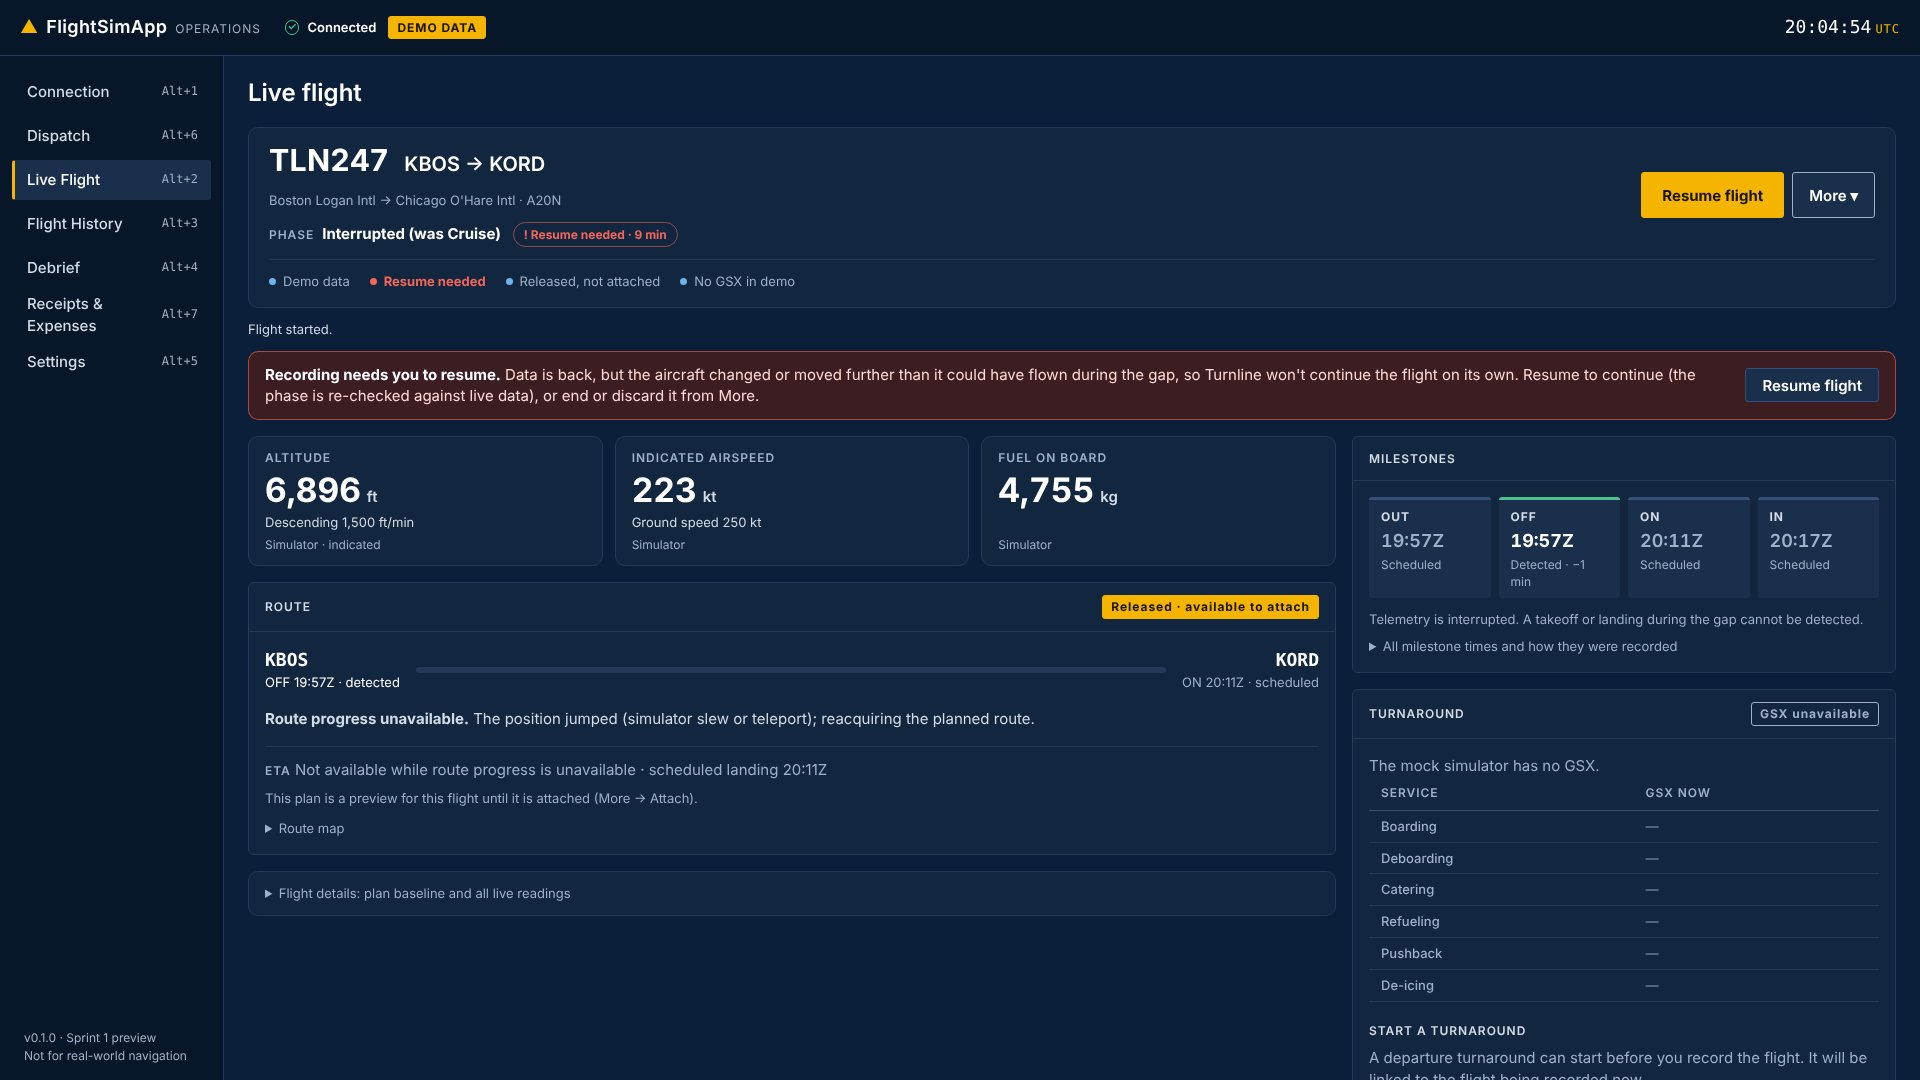
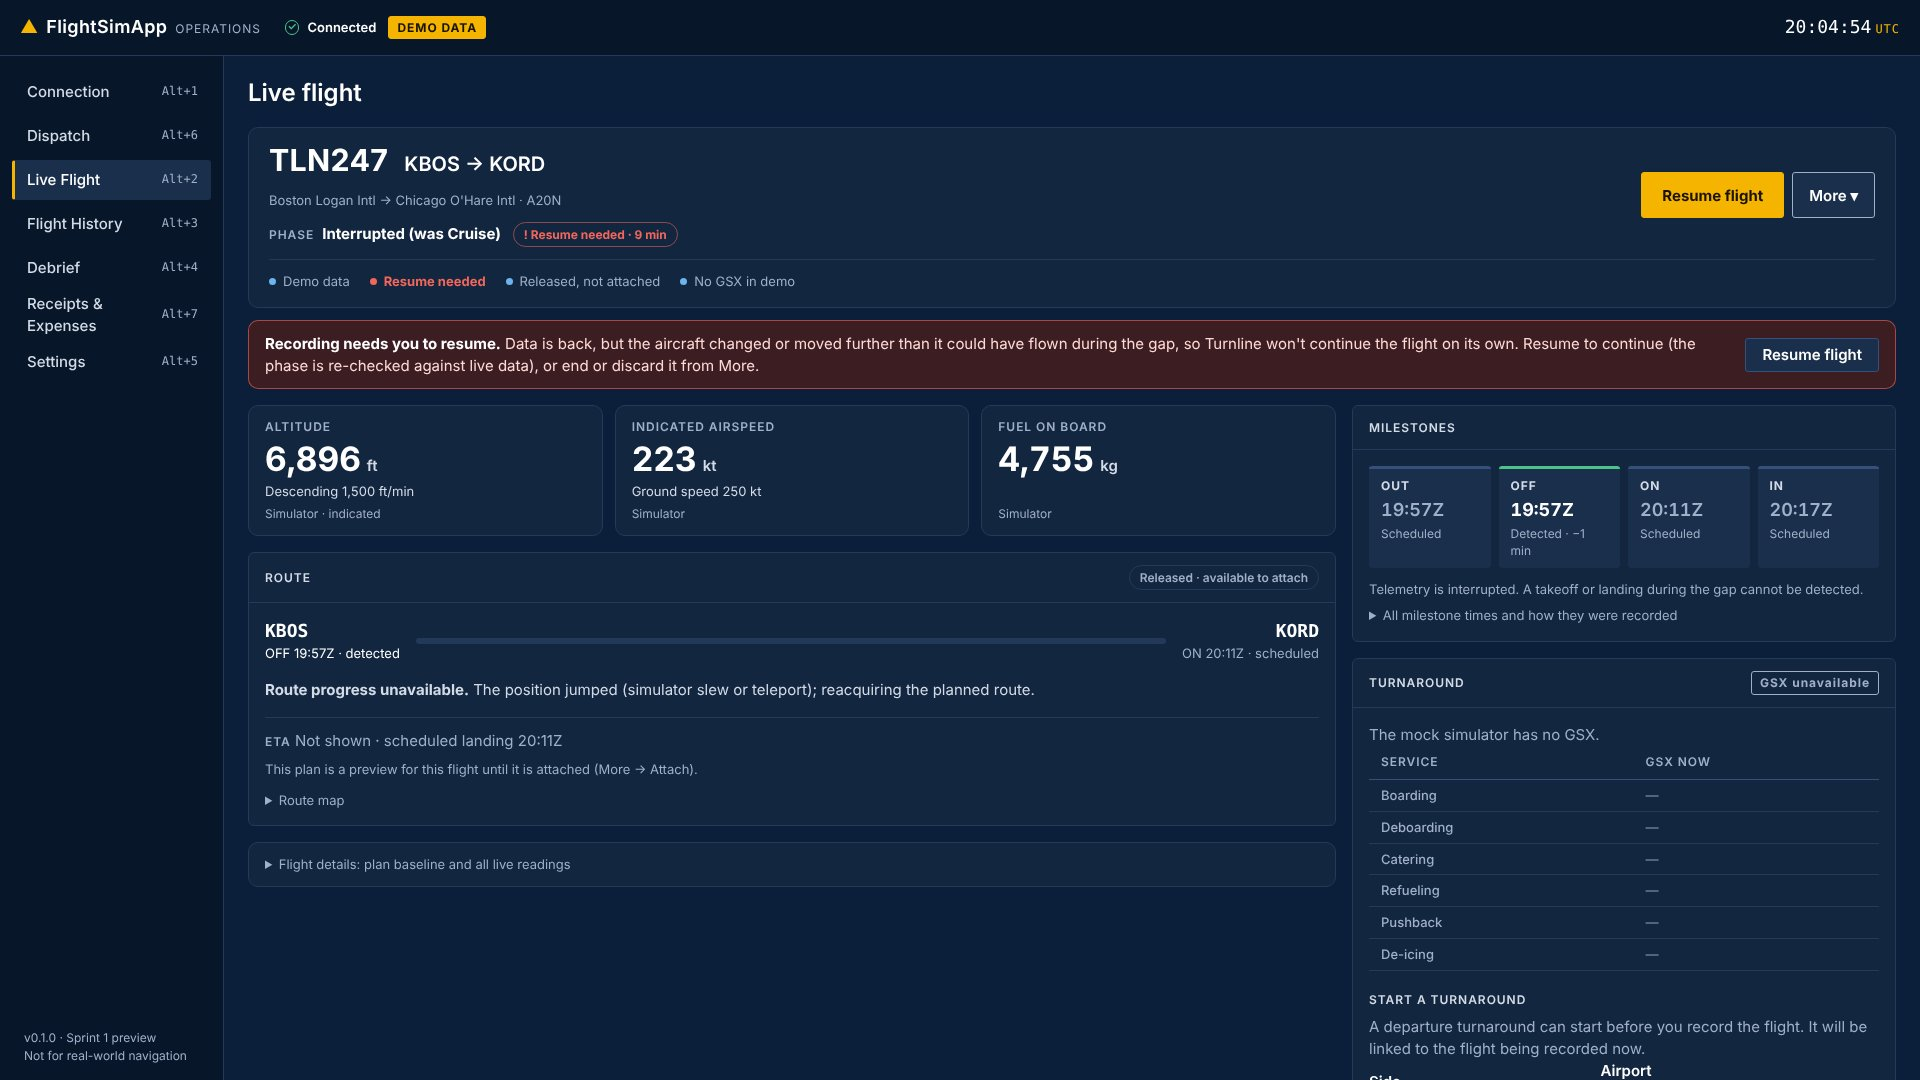
Ops Center L5 polish from the visual review
1. Tighter identity header when the content is narrower than 1000 px.
2. 'Route progress unavailable' is said once. The tracker's reason no
   longer repeats it, and the ETA line reads 'Not shown' while the route
   isn't tracked.
3. 'Flight started.' and other confirmations are transient notifications
   (6 s); problems stay until the next action.
4. Shorter paused-header text ('Paused · waiting for data'); the full
   explanation stays in the attention bar.
5. The plan-basis chip on the route card is a muted outline, not a gold
   fill.
6. Parked after landing: the on-block tile shows the scheduled IN time
   until IN is recorded, then the recorded time and its variance; no
   countdown. Taxiing in keeps the countdown.

Tests cover the parked tile, the reason de-duplication and the
confirmation clearing. Review captures regenerated.

Claude-Session: https://claude.ai/code/session_01X48f53avPYevbBC5PPk6Mm

diff --git a/apps/desktop/test/live-model.test.ts b/apps/desktop/test/live-model.test.ts
@@ -191,7 +191,7 @@ describe("flight actions", () => {
     // Interrupted before takeoff: the existing rules still allow a manual OUT, so it stays reachable.
     expect(acts({ lc: lc({ status: "interrupted", flightId: "f-1", phase: "INTERRUPTED", needsUserDecision: true }) })).toMatchObject({ primary: "resume", secondary: ["record_out", "end", "discard"] });
     // Automatic interruption: recording resumes on its own; Resume stays available but is not the primary.
-    expect(acts({ lc: lc({ status: "interrupted", flightId: "f-1", phase: "INTERRUPTED", takeoffAt: "x" }) })).toMatchObject({ primary: null, secondary: ["resume", "end", "discard"], idleNote: "Paused · resumes on its own if data returns for the same aircraft" });
+    expect(acts({ lc: lc({ status: "interrupted", flightId: "f-1", phase: "INTERRUPTED", takeoffAt: "x" }) })).toMatchObject({ primary: null, secondary: ["resume", "end", "discard"], idleNote: "Paused · waiting for data" });
     expect(acts({ lc: lc({ status: "completed", flightId: "f-1" }) })).toMatchObject({ primary: "start", secondary: ["open_debrief"] });
     expect(acts({ lc: lc({ status: "completed", flightId: "f-1" }), telemetryLive: false })).toMatchObject({ primary: "connect", secondary: ["open_debrief"] });
   });
@@ -464,7 +464,7 @@ describe("interruption messages follow the recorder's real recovery rules", () =
     expect(a.detail).toMatch(/resumes on its own when data returns for the same aircraft/);
     expect(a.detail).toMatch(/you'll be asked to resume/);
     expect(h({ lc: open() }).items.find((i) => i.id === "recording")).toMatchObject({ level: "warn", text: "Recording paused" });
-    expect(acts({ lc: open({ takeoffAt: "x" }) })).toMatchObject({ primary: null, idleNote: "Paused · resumes on its own if data returns for the same aircraft" });
+    expect(acts({ lc: open({ takeoffAt: "x" }) })).toMatchObject({ primary: null, idleNote: "Paused · waiting for data" });
   });
 
   it("a mismatch after data returns asks for Resume and says why; it never claims to resume automatically", () => {
@@ -481,5 +481,19 @@ describe("interruption messages follow the recorder's real recovery rules", () =
     expect(a).toMatchObject({ id: "stale", level: "warn" });
     expect(a.detail).toMatch(new RegExp(`Recording continues; if no data arrives for ${INTERRUPT_AFTER_S} s, the flight is marked interrupted`));
     expect(INTERRUPT_AFTER_S).toBe(30);
+  });
+});
+
+describe("L5 polish", () => {
+  it("parked: shows scheduled IN until IN is recorded, then the recorded time and its variance (never a countdown)", () => {
+    const parked = active("TAXI_IN", { arrived: true, takeoffAt: "2026-10-15T14:52:00Z", landingAt: "2026-10-15T17:08:00Z" });
+    const before = selectTiles(tiles({ lc: parked, nowMs: Date.parse("2026-10-15T17:12:00Z") }))[1];
+    expect(before).toMatchObject({ id: "on_block", label: "Scheduled on-block", value: "17:18Z", secondary: "IN not recorded yet" });
+    expect(before.label).not.toMatch(/ in$/);
+    const after = selectTiles(tiles({ lc: parked, manual: manual("2026-10-15T14:38:00Z", "2026-10-15T17:25:00Z") }))[1];
+    expect(after).toMatchObject({ label: "On-block recorded", value: "17:25Z", secondary: "+7 min against schedule 17:18Z" });
+    // Taxiing in, the countdown to scheduled IN is still useful.
+    const taxiIn = selectTiles(tiles({ lc: active("TAXI_IN", { takeoffAt: "2026-10-15T14:52:00Z", landingAt: "2026-10-15T17:08:00Z" }), nowMs: Date.parse("2026-10-15T17:12:00Z") }))[1];
+    expect(taxiIn).toMatchObject({ label: "Scheduled on-block in", value: "6" });
   });
 });

diff --git a/apps/desktop/src/live/OpsCenterHeader.tsx b/apps/desktop/src/live/OpsCenterHeader.tsx
@@ -37,13 +37,22 @@ const ATTENTION_LABEL: Record<AttentionAction, string> = {
   resume_turnaround: "Resume turnaround",
 };
 
+/** How long a confirmation stays on screen. */
+export const NOTICE_MS = 6000;
+
 type Dialog = null | "end" | "discard" | "out" | "in" | "move_aside";
 
 export function OpsCenterHeader({ model: m, navigate }: { model: LiveFlightModel; navigate: NavigateFn }) {
   const recorder = useRecorder();
   const ops = useOps();
   const dispatch = useDispatch();
-  const { run, message, setMessage } = useCommandRunner();
+  const { run, message, ok, setMessage } = useCommandRunner();
+  // Confirmations ("Flight started.") are transient; problems stay until the next action.
+  useEffect(() => {
+    if (!message || !ok) return;
+    const t = setTimeout(() => setMessage(null), NOTICE_MS);
+    return () => clearTimeout(t);
+  }, [message, ok]);
   const [dialog, setDialog] = useState<Dialog>(null);
 
   const perform = (a: FlightActionId) => {
@@ -69,12 +78,12 @@ export function OpsCenterHeader({ model: m, navigate }: { model: LiveFlightModel
       case "attach_release":
         if (m.flightId) {
           const label = m.basis?.release ?? "release";
-          void dispatch.attachRelease(m.flightId).then((r) => setMessage(r.ok ? `Release ${label} attached to this flight.` : `Could not attach the release: ${r.message}`));
+          void dispatch.attachRelease(m.flightId).then((r) => setMessage(r.ok ? `Release ${label} attached to this flight.` : `Could not attach the release: ${r.message}`, r.ok));
         }
         return;
       case "attach_plan":
         if (m.flightId)
-          void dispatch.associate(m.flightId).then((r) => setMessage(!r.ok ? `Could not attach the plan: ${r.message}` : r.outcome === "created" ? "Plan attached to this flight." : "This flight already has a plan attached; it was left unchanged."));
+          void dispatch.associate(m.flightId).then((r) => setMessage(!r.ok ? `Could not attach the plan: ${r.message}` : r.outcome === "created" ? "Plan attached to this flight." : "This flight already has a plan attached; it was left unchanged.", r.ok));
         return;
     }
   };
@@ -115,7 +124,7 @@ export function OpsCenterHeader({ model: m, navigate }: { model: LiveFlightModel
         <HealthSummary items={m.health.items} />
       </section>
       {message && (
-        <p className="ops-message" role="status">
+        <p className={ok ? "ops-toast" : "ops-message"} role="status">
           {message}
         </p>
       )}
@@ -124,7 +133,7 @@ export function OpsCenterHeader({ model: m, navigate }: { model: LiveFlightModel
       {dialog === "end" && <EndFlightDialog run={run} onClose={() => setDialog(null)} />}
       {dialog === "discard" && <DiscardFlightDialog run={run} onClose={() => setDialog(null)} />}
       {dialog === "move_aside" && <MoveAsideDialog onClose={() => setDialog(null)} />}
-      {(dialog === "out" || dialog === "in") && m.flightId && <RecordMilestoneDialog which={dialog} flightId={m.flightId} onClose={() => setDialog(null)} onResult={(r) => setMessage(r.text)} />}
+      {(dialog === "out" || dialog === "in") && m.flightId && <RecordMilestoneDialog which={dialog} flightId={m.flightId} onClose={() => setDialog(null)} onResult={(r) => setMessage(r.text, r.ok)} />}
     </div>
   );
 }

diff --git a/apps/desktop/src/live/RouteCard.tsx b/apps/desktop/src/live/RouteCard.tsx
@@ -5,8 +5,7 @@
  */
 import type { NavigateFn } from "../app/navigation";
 import { fixLabel } from "../dispatch/navlog";
-import { PlanBasisTag } from "../dispatch/PlanBasisWidgets";
-import type { PlanBasis } from "../dispatch/planBasis";
+import { PLAN_BASIS_LABEL, PLAN_BASIS_TAG, type PlanBasis } from "../dispatch/planBasis";
 import type { LatLon } from "../route/geo";
 import { RouteMap } from "../route/RouteWidgets";
 import { Button } from "../ui/Button";
@@ -17,6 +16,9 @@ import type { LiveFlightModel } from "./useLiveFlightModel";
 type Route = LiveFlightModel["route"];
 
 const nm = (v: number) => `${Math.round(v).toLocaleString("en-US")} nm`;
+
+/** The tracker's reason without a trailing "route progress unavailable", which the heading already says. */
+export const progressReason = (reason: string) => reason.replace(/[;,.]?\s*route progress (?:is )?unavailable\.?\s*$/i, ".").replace(/\.\.$/, ".");
 
 function Endpoint({ icao, cell, align }: { icao: string; cell: MilestoneCell | undefined; align: "start" | "end" }) {
   return (
@@ -56,7 +58,15 @@ export function RouteCard({ route, basis, cells, flightOpen, navigate }: { route
   const to = plan.destination?.icao ?? "Destination unknown";
   const title = `${from} → ${to}`;
   return (
-    <Panel title="Route" className="ops-route" actions={<PlanBasisTag basis={basis} />}>
+    <Panel
+      title="Route"
+      className="ops-route"
+      actions={
+        <span className="ops-chip ops-chip--quiet" title={PLAN_BASIS_LABEL[basis.kind]}>
+          {PLAN_BASIS_TAG[basis.kind]}
+        </span>
+      }
+    >
       <div className="ops-route__ends">
         <Endpoint icao={from} cell={off} align="start" />
         <div className="ops-route__bar" role="progressbar" aria-label="Planned route flown" aria-valuemin={0} aria-valuemax={100} aria-valuenow={fraction === null ? undefined : Math.round(fraction * 100)}>
@@ -97,7 +107,7 @@ export function RouteCard({ route, basis, cells, flightOpen, navigate }: { route
         </dl>
       ) : (
         <p className="ops-route__status" role="status">
-          <strong>{progress.status === "outside_corridor" ? "Outside the planned route corridor." : "Route progress unavailable."}</strong> {progress.reason}
+          <strong>{progress.status === "outside_corridor" ? "Outside the planned route corridor." : "Route progress unavailable."}</strong> {progressReason(progress.reason)}
         </p>
       )}
 
@@ -108,7 +118,8 @@ export function RouteCard({ route, basis, cells, flightOpen, navigate }: { route
             <strong>{eta.atUtc.slice(11, 16)}Z</strong> <span className="muted">at current ground speed · in {eta.minutes} min</span>
           </>
         ) : (
-          <span className="muted">{progress.status !== "tracking" && eta.reason === progress.reason ? "Not available while route progress is unavailable" : eta.reason}</span>
+          // While the route isn't tracked the status line above already says why; don't repeat it.
+          <span className="muted">{plan.navlog && progress.status !== "tracking" ? "Not shown" : eta.reason}</span>
         )}
         {on?.kind === "scheduled" && on.time && <span className="muted"> · scheduled landing {on.time}</span>}
       </p>

diff --git a/apps/desktop/src/styles/app.css b/apps/desktop/src/styles/app.css
@@ -376,6 +376,7 @@ details > summary { cursor: pointer; color: var(--text-muted); font-size: var(--
 .ops-chip--ok { color: var(--status-ok); border-color: color-mix(in srgb, var(--status-ok) 45%, transparent); }
 .ops-chip--warn { color: var(--status-warn); border-color: color-mix(in srgb, var(--status-warn) 45%, transparent); }
 .ops-chip--alert { color: var(--status-alert); border-color: color-mix(in srgb, var(--status-alert) 55%, transparent); }
+.ops-chip--quiet { color: var(--text-muted); border-color: var(--border-subtle); font-weight: 600; }
 .ops-chip--info { color: var(--status-info); border-color: color-mix(in srgb, var(--status-info) 45%, transparent); }
 .ops-more { position: relative; }
 .ops-more .button { min-height: 46px; }
@@ -400,6 +401,8 @@ details > summary { cursor: pointer; color: var(--text-muted); font-size: var(--
 .ops-attention__item--action { background: var(--status-alert-surface); border: 1px solid color-mix(in srgb, var(--status-alert) 60%, transparent); color: #ffd9d5; }
 .ops-attention__item .button-row { margin: 0; }
 .ops-message { margin: 0; color: var(--text-secondary); font-size: var(--text-sm); }
+/* Transient confirmation: shown briefly over the page, never part of the layout. */
+.ops-toast { position: fixed; top: calc(var(--topbar-height) + var(--space-3)); right: var(--space-5); z-index: 30; margin: 0; max-width: 360px; padding: var(--space-2) var(--space-4); border: 1px solid var(--border-strong); border-left: 3px solid var(--status-ok); border-radius: var(--radius-md); background: var(--surface-2); color: var(--text-primary); font-size: var(--text-sm); box-shadow: 0 10px 24px rgba(0, 0, 0, .35); }
 .ops-preview-note { margin: 0; color: var(--text-muted); font-size: var(--text-xs); }
 .ops-center { container-type: inline-size; }
 .ops-grid { display: grid; grid-template-columns: minmax(0, 1fr); gap: var(--space-4); align-items: start; }
@@ -452,6 +455,14 @@ details > summary { cursor: pointer; color: var(--text-muted); font-size: var(--
 @container (max-width: 1199px) {
   .ops-main, .ops-side { display: contents; }
   .ops-details { order: 1; }
+}
+/* Narrower windows: a tighter identity header. */
+@container (max-width: 1000px) {
+  .ops-id { padding: var(--space-3) var(--space-4); gap: var(--space-2) var(--space-5); }
+  .ops-id__flight { font-size: 1.6rem; }
+  .ops-id__route { font-size: 1.1rem; }
+  .ops-id__status { margin-top: var(--space-1); }
+  .ops-health { padding-top: var(--space-2); }
 }
 @container (max-width: 760px) {
   .ops-id { grid-template-columns: minmax(0, 1fr); grid-template-areas: "identity" "actions" "health"; }

diff --git a/apps/desktop/src/live/model.ts b/apps/desktop/src/live/model.ts
@@ -272,8 +272,14 @@ function aircraftStateTile(t: TileInputs): MetricTile {
   };
 }
 
-function onBlockTile(t: TileInputs): MetricTile {
-  return scheduleTile("on_block", t, t.schedulePlan?.schedule.inUtc ?? null, t.manual.in?.atUtc ?? null, "On-block");
+function onBlockTile(t: TileInputs, parked: boolean): MetricTile {
+  const at = t.schedulePlan?.schedule.inUtc ?? null;
+  const actual = t.manual.in?.atUtc ?? null;
+  // Parked at the gate: a countdown to scheduled IN means little; show the scheduled time until IN is
+  // recorded, then the recorded time and its variance.
+  if (parked && !actual && at)
+    return { id: "on_block", label: "Scheduled on-block", value: hmUtc(at), unit: null, secondary: "IN not recorded yet", source: "SimBrief plan", state: "ok", note: null };
+  return scheduleTile("on_block", t, at, actual, "On-block");
 }
 
 function blockTimeTile(t: TileInputs): MetricTile {
@@ -300,9 +306,9 @@ export function selectTiles(t: TileInputs): [MetricTile, MetricTile, MetricTile]
   }
   if (g === "landing") {
     const gs = telemetryTile("ground_speed", "Ground speed", t.frame?.readings.ground_speed_kt, "kt", t);
-    return [gs, onBlockTile(t), fuelTile(t, g)];
+    return [gs, onBlockTile(t, false), fuelTile(t, g)];
   }
-  if (g === "parked") return [blockTimeTile(t), onBlockTile(t), fuelTile(t, g)];
+  if (g === "parked") return [blockTimeTile(t), onBlockTile(t, true), fuelTile(t, g)];
   return [scheduleTile("scheduled_out", t, t.schedulePlan?.schedule.outUtc ?? null, t.manual.out?.atUtc ?? null, "Off-block"), fuelTile(t, "at_gate"), aircraftStateTile(t)];
 }
 
@@ -370,7 +376,7 @@ export function flightActions(a: ActionInputs): ActionsModel {
   if (engine.end) secondary.push("end");
   if (engine.discard) secondary.push("discard");
   if (closed && primary !== "open_debrief") secondary.push("open_debrief");
-  return { primary, secondary, idleNote: primary ? null : autoResume ? "Paused · resumes on its own if data returns for the same aircraft" : open ? "No action needed" : null };
+  return { primary, secondary, idleNote: primary ? null : autoResume ? "Paused · waiting for data" : open ? "No action needed" : null };
 }
 
 // ---------------------------------------------------------------- health and attention

diff --git a/apps/desktop/test/ops-center-ui.test.tsx b/apps/desktop/test/ops-center-ui.test.tsx
@@ -1,7 +1,9 @@
 // @vitest-environment jsdom
 import "@testing-library/jest-dom/vitest";
 import { act, cleanup, fireEvent, render, screen, within } from "@testing-library/react";
-import { afterEach, describe, expect, it } from "vitest";
+import { afterEach, describe, expect, it, vi } from "vitest";
+import { NOTICE_MS } from "../src/live/OpsCenterHeader";
+import { progressReason } from "../src/live/RouteCard";
 import { App } from "../src/App";
 import { DispatchService } from "../src/dispatch/DispatchService";
 import { MemoryDispatchStore } from "../src/dispatch/store";
@@ -144,4 +146,28 @@ describe("operations-center layout (L4, opt-in)", () => {
     fireEvent.click(within(screen.getByRole("navigation", { name: "Primary" })).getByRole("button", { name: /Flight History/ }));
     expect(screen.getByText(/C:\/Users\/pilot\/AppData\/flightsim.db/)).toBeInTheDocument();
   });
+
+  it("shows a confirmation such as \"Flight started.\" briefly, then removes it", async () => {
+    const { transport } = await renderApp({ optIn: true });
+    await send(transport, helloOk(), connState("CONNECTED"), liveFrame(1));
+    vi.useFakeTimers({ shouldAdvanceTime: true });
+    try {
+      fireEvent.click(within(header()).getByRole("button", { name: "Start flight" }));
+      await settle();
+      expect(screen.getByText("Flight started.")).toHaveClass("ops-toast");
+      await act(async () => {
+        vi.advanceTimersByTime(NOTICE_MS + 100);
+      });
+      expect(screen.queryByText("Flight started.")).toBeNull();
+    } finally {
+      vi.useRealTimers();
+    }
+  });
+
+  it("says once that route progress is unavailable", () => {
+    expect(progressReason("Not within the planned route corridor; route progress unavailable.")).toBe("Not within the planned route corridor.");
+    expect(progressReason("On the ground. Route progress starts after takeoff.")).toBe("On the ground. Route progress starts after takeoff.");
+    expect(progressReason("Telemetry is stale or disconnected.")).toBe("Telemetry is stale or disconnected.");
+  });
 });
+

diff --git a/apps/desktop/src/recording/FlightDialogs.tsx b/apps/desktop/src/recording/FlightDialogs.tsx
@@ -24,15 +24,17 @@ export const REJECTION_TEXT: Record<string, string> = {
 /** Runs a recorder command and reports the outcome as one line of text (success text, or why it was refused). */
 export type RunCommand = (cmd: () => Promise<CommandResult>, success?: string) => Promise<void>;
 
-export function useCommandRunner(): { run: RunCommand; message: string | null; setMessage: (m: string | null) => void } {
-  const [message, setMessage] = useState<string | null>(null);
+/** Runs recorder commands and keeps the last outcome; `ok` tells a confirmation from a problem. */
+export function useCommandRunner(): { run: RunCommand; message: string | null; ok: boolean; setMessage: (m: string | null, ok?: boolean) => void } {
+  const [state, setState] = useState<{ message: string | null; ok: boolean }>({ message: null, ok: false });
+  const setMessage = (message: string | null, ok = false) => setState({ message, ok });
   const run: RunCommand = async (cmd, success) => {
     setMessage(null);
     const r = await cmd();
-    if (r.ok) setMessage(success ?? null);
+    if (r.ok) setMessage(success ?? null, true);
     else setMessage(r.message ?? REJECTION_TEXT[r.reason] ?? r.reason);
   };
-  return { run, message, setMessage };
+  return { run, message: state.message, ok: state.ok, setMessage };
 }
 
 export function EndFlightDialog({ run, onClose }: { run: RunCommand; onClose: () => void }) {
